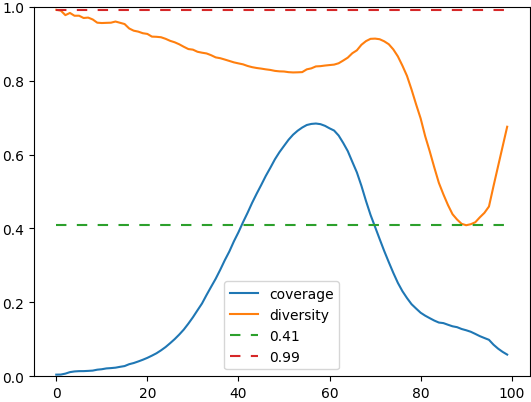
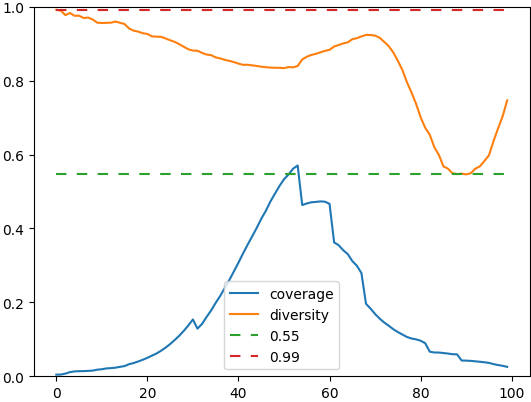
data xfer new baseline

diff --git a/RL_Framework/eval_policy.py b/RL_Framework/eval_policy.py
@@ -121,9 +121,9 @@ def evaluate_fixed_policy(env, garden_days, sector_obs_per_day, trial, freq, pru
 
         print("Day {}/{}".format(i, garden_days))
         for _ in range(sector_obs_per_day):
-            prune = 2 if env.get_prune_window_greatest_width() > prune_thresh and i % 3 == 0 else 0
+            # prune = 2 if env.get_prune_window_greatest_width() > prune_thresh and i % 3 == 0 else 0
             # prune = 2 if np.random.random() < 0.01 and i % 3 == 0 else 0
-            # prune = 2 if np.random.random() < 0.01 else 0
+            prune = 2 if np.random.random() < 0.01 else 0
 
             env.step(water + prune)
     metrics = env.get_metrics()
